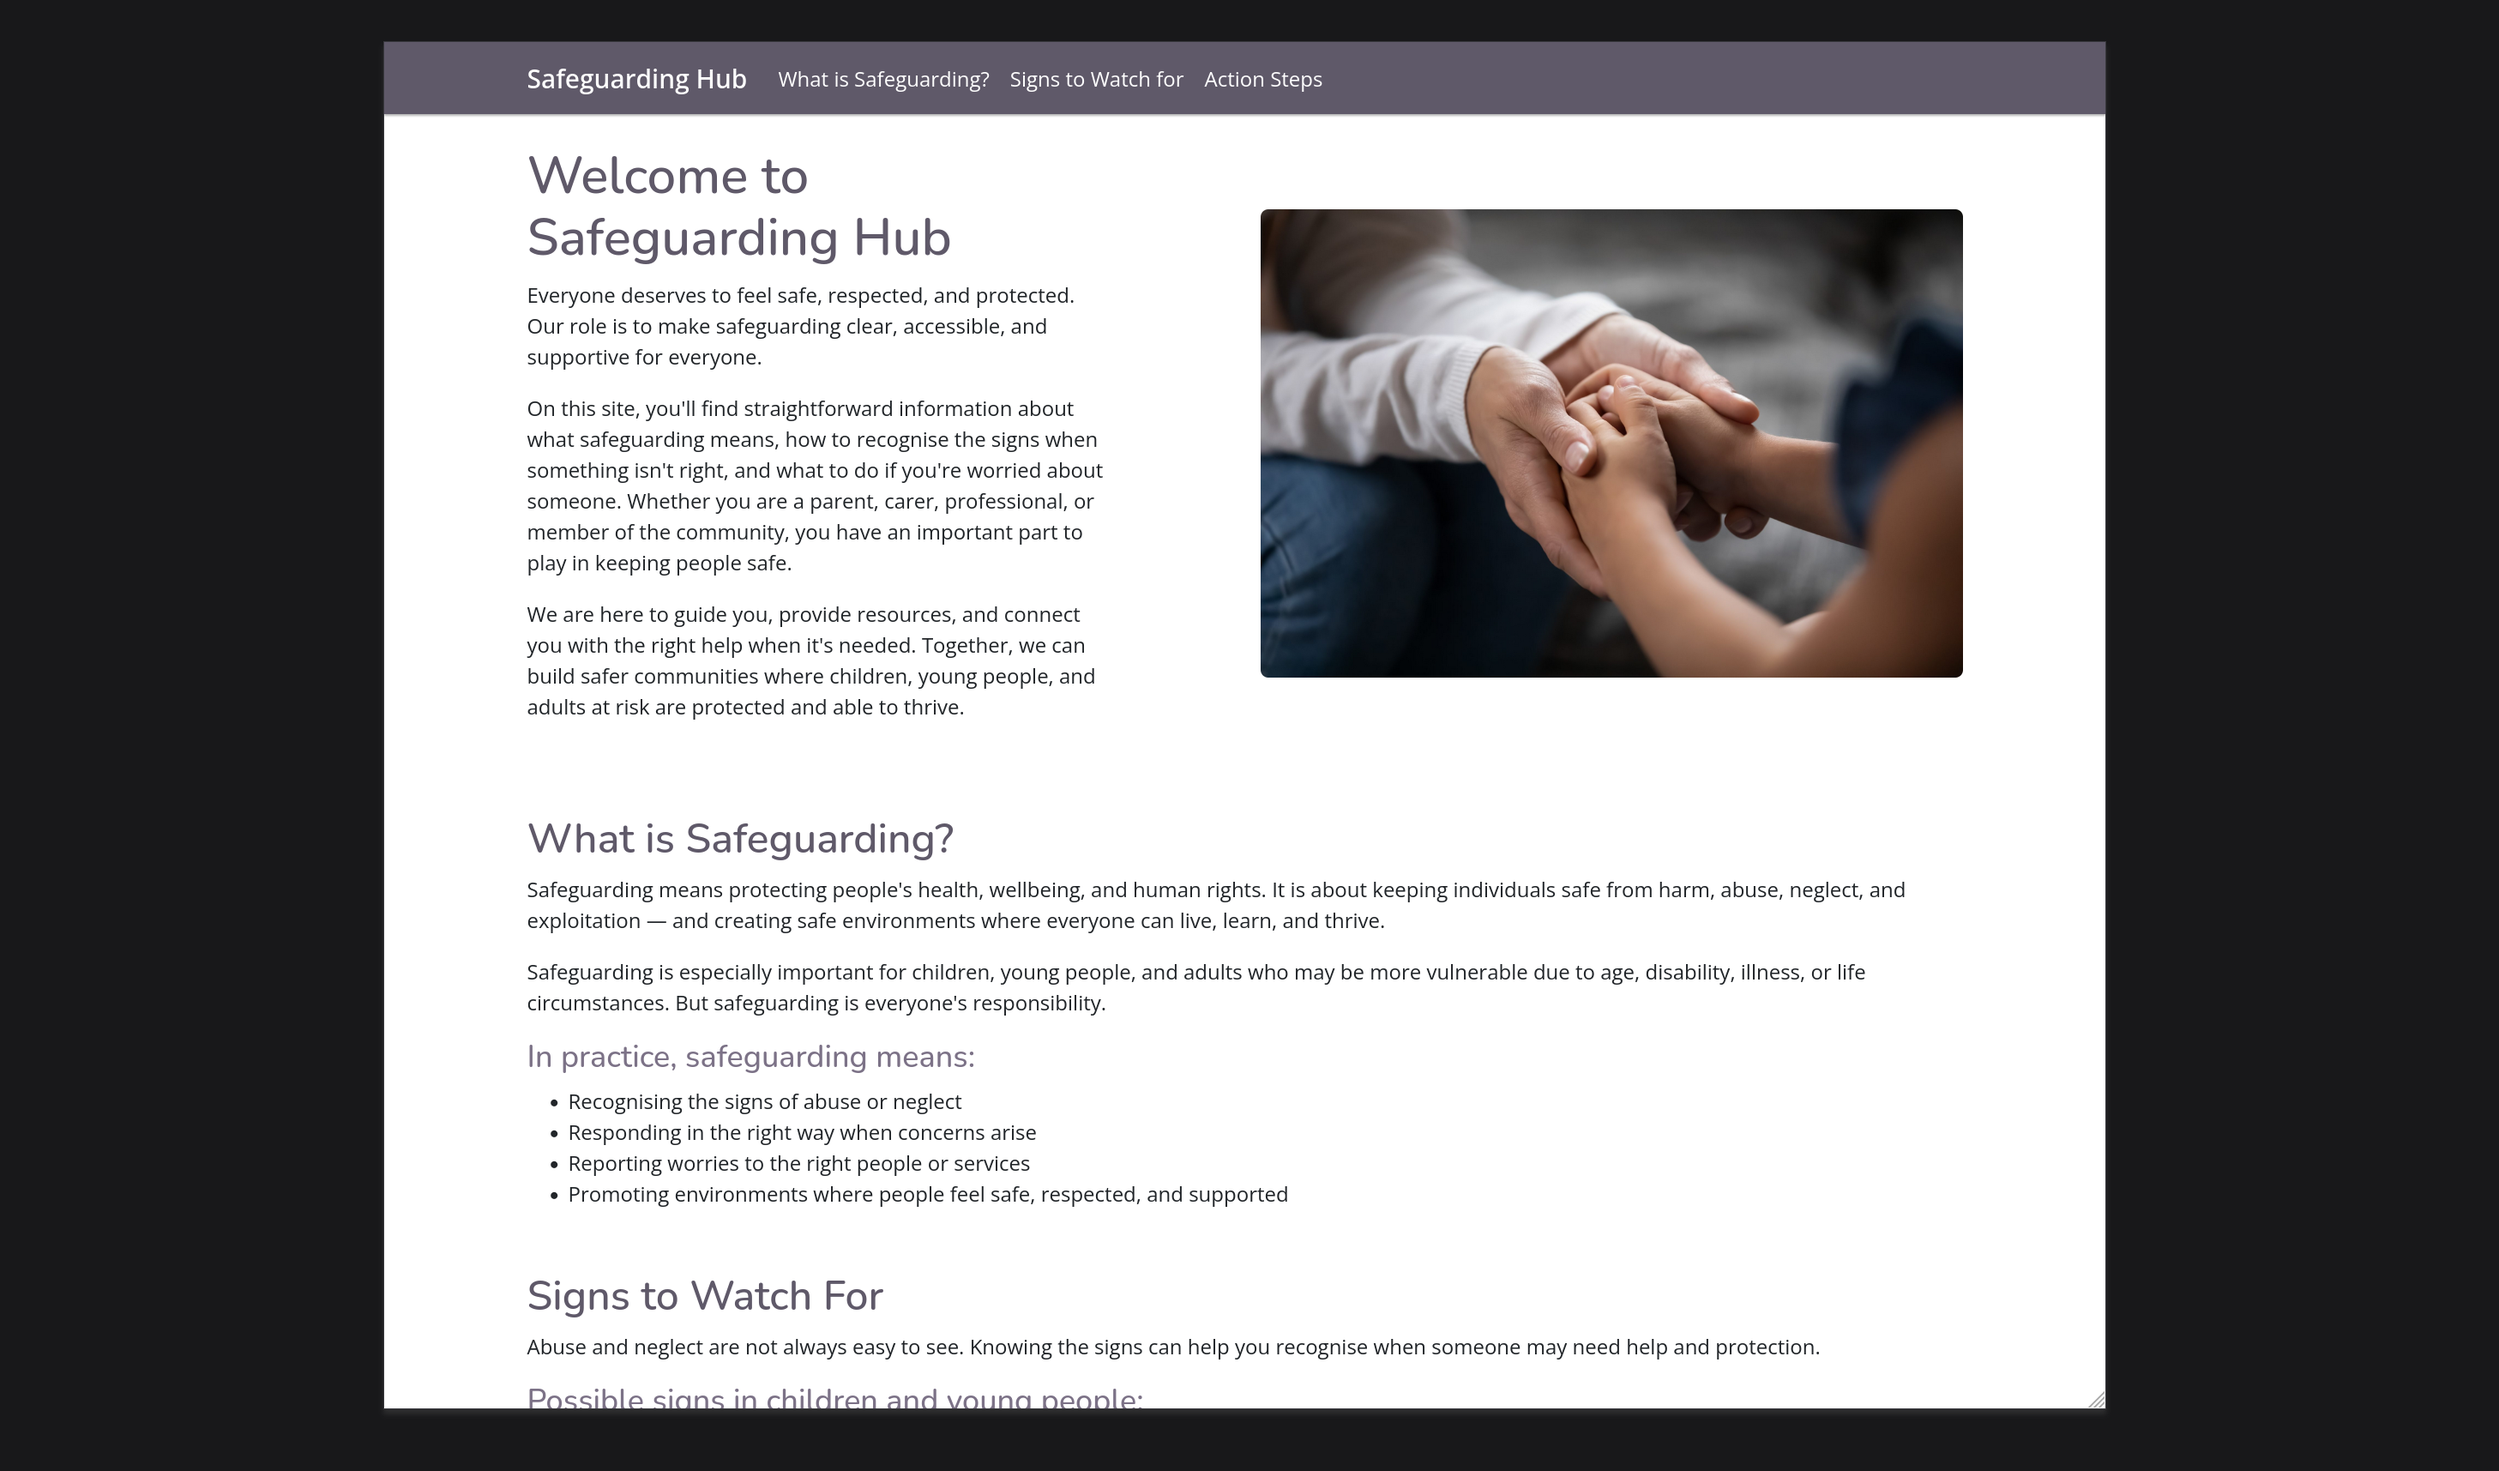
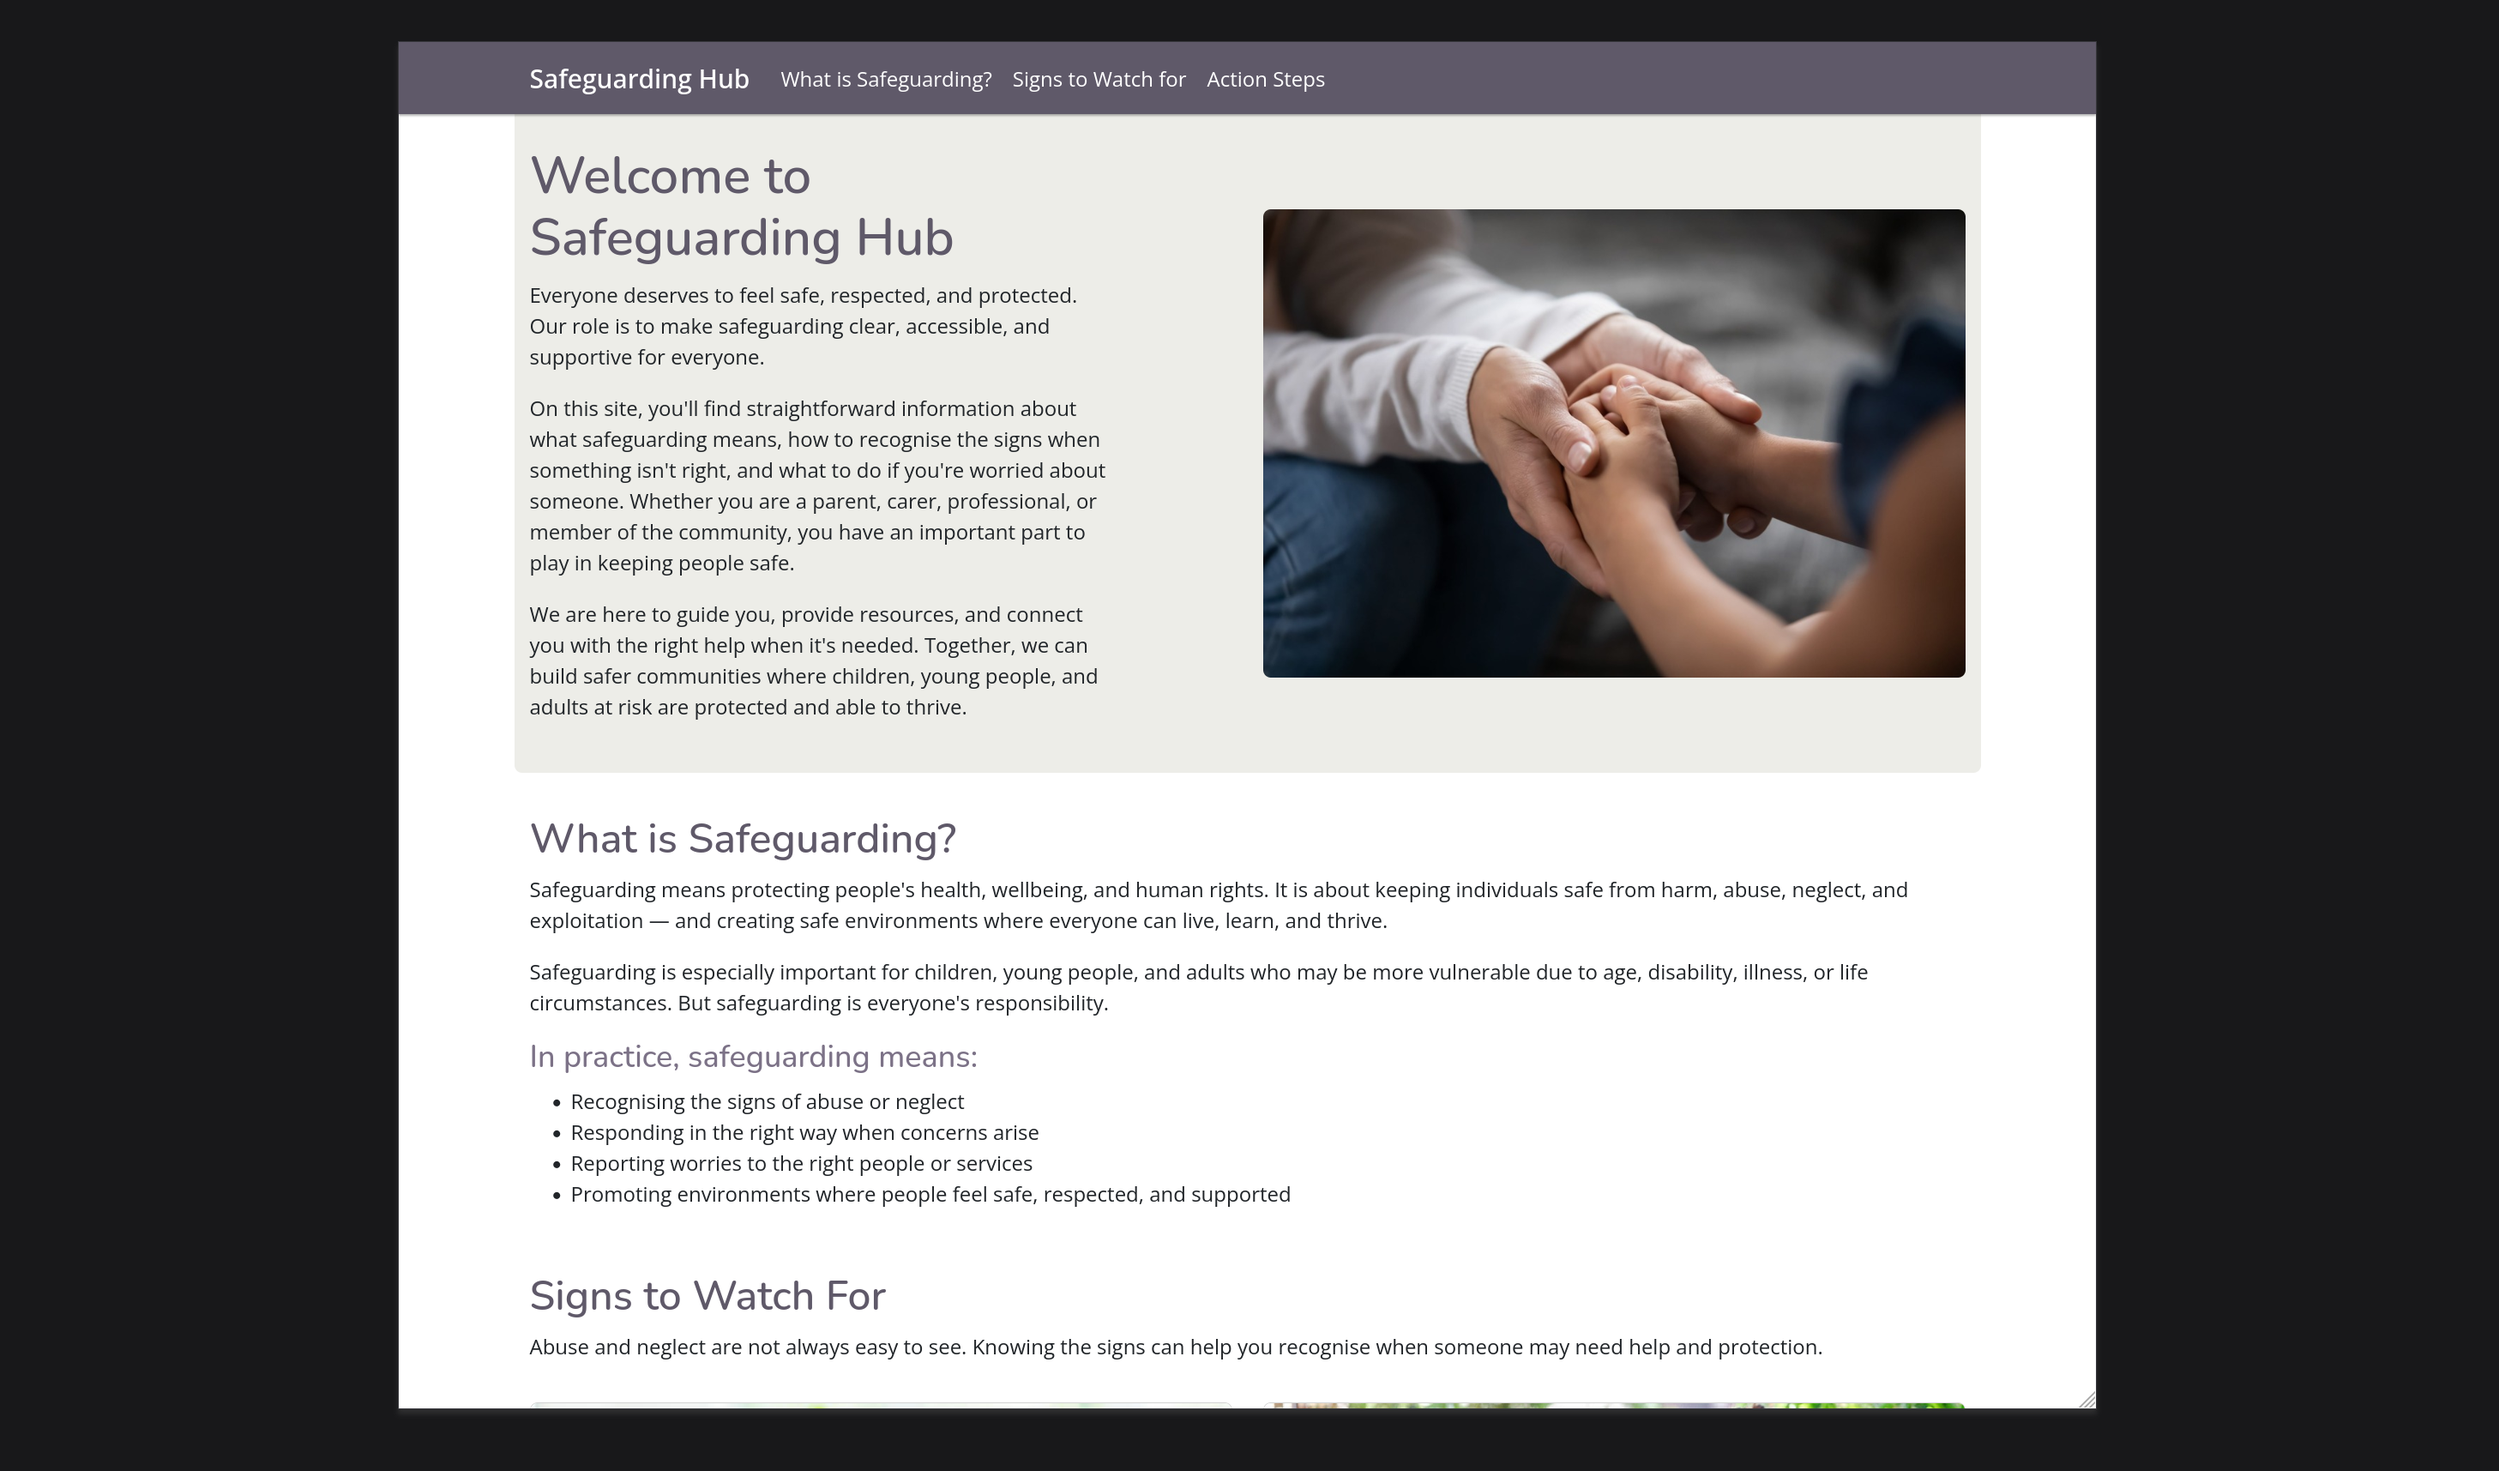
Change readme and screenshots following card addition

diff --git a/README.md b/README.md
@@ -8,6 +8,7 @@ Introduces users to safeguarding principles, how to spot the signs and how to ac
 ## The website renders responsively depending on screen size
 
 ![Website as rendered on a device with a small screen](assets/images/readme/small-device.png "Small device size")
+![Website as rendered on a device with a small screen showing information cards](assets/images/readme/card-small-device.png "Small device size showing information cards")
 
 Here the navbar has burger menu containing the site links and all website content is stacked vertically.
 
@@ -15,6 +16,10 @@ Here the navbar has burger menu containing the site links and all website conten
 ![Website as rendered on a device with a large screen](assets/images/readme/large-device.png "Large device size")
 
 On screens sizes medium and above the navbar has expanded to show the contents now along the bar.
+
+![Website as rendered on a device with a large screen](assets/images/readme/card-large-device.png "Large device size showing information cards")
+
+The Signs to Watch For cards are now side by side for large screen sizes and above.
 
 ![Website as rendered on a device with a XL screen](assets/images/readme/xl-device.png "XL device size")
 ![Website as rendered on a device with a XXL screen](assets/images/readme/xxl-device.png "XXL device device size")
@@ -24,17 +29,9 @@ XL and XXL screen sizes now have the header image side by side with the text ins
 ## The navbar menu
 ![Website as rendered on a device with a small screen with the navbar closed](assets/images/readme/small-device.png "Small device size navbar closed")
 ![Website as rendered on a device with a small screen with the navbar open](assets/images/readme/small-device-open.png "Small device size with navbar open")
-![Website as rendered on a device with a small screen with the navbar closed and having been sent to a section heading](assets/images/readme/small-device-navbar-outcome.png "Small device size with navbar closed after using one of the navigation links")
+![Website as rendered on a device with a small screen with the navbar closed and having been sent to a section heading](assets/images/readme/card-small-device.png "Small device size with navbar closed after using one of the navigation links")
 
 The navbar options take the user to the specific headings on the page without covering them.
-
-## Other user centric design elements
-
-![Website as rendered on a device with a small screen with the navbar closed](assets/images/readme/small-device-navbar-outcome.png "Small device size navbar closed")
-
-- Use of colour and weights to differentiate headings and subheadings
-- A font choice that felt professional but welcoming
-- For most screen sizes the navbar elements have padding to make them more central and alined with the page content.
 
 # Deployment procedure
 Github pages automatically redploys site updates upon pushes to the remte repository.
